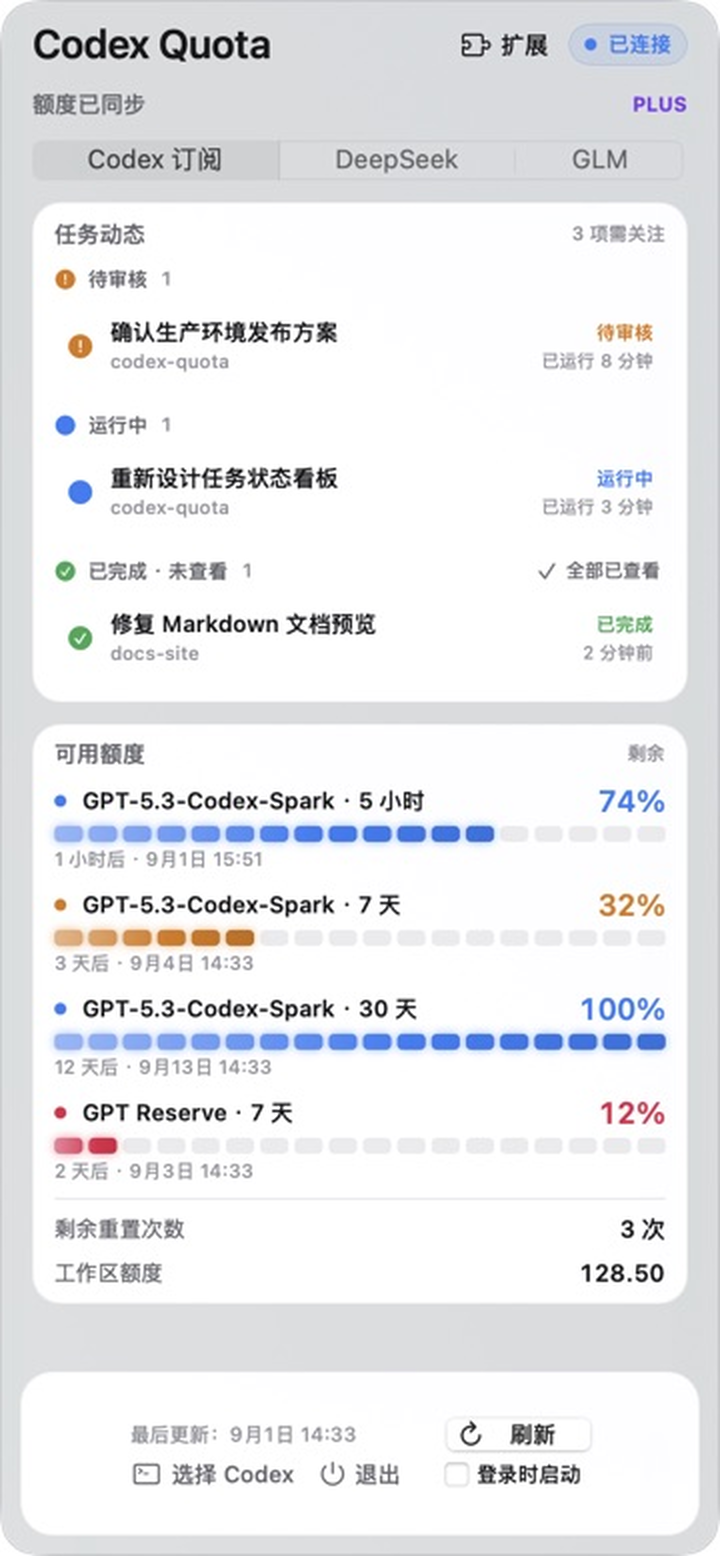
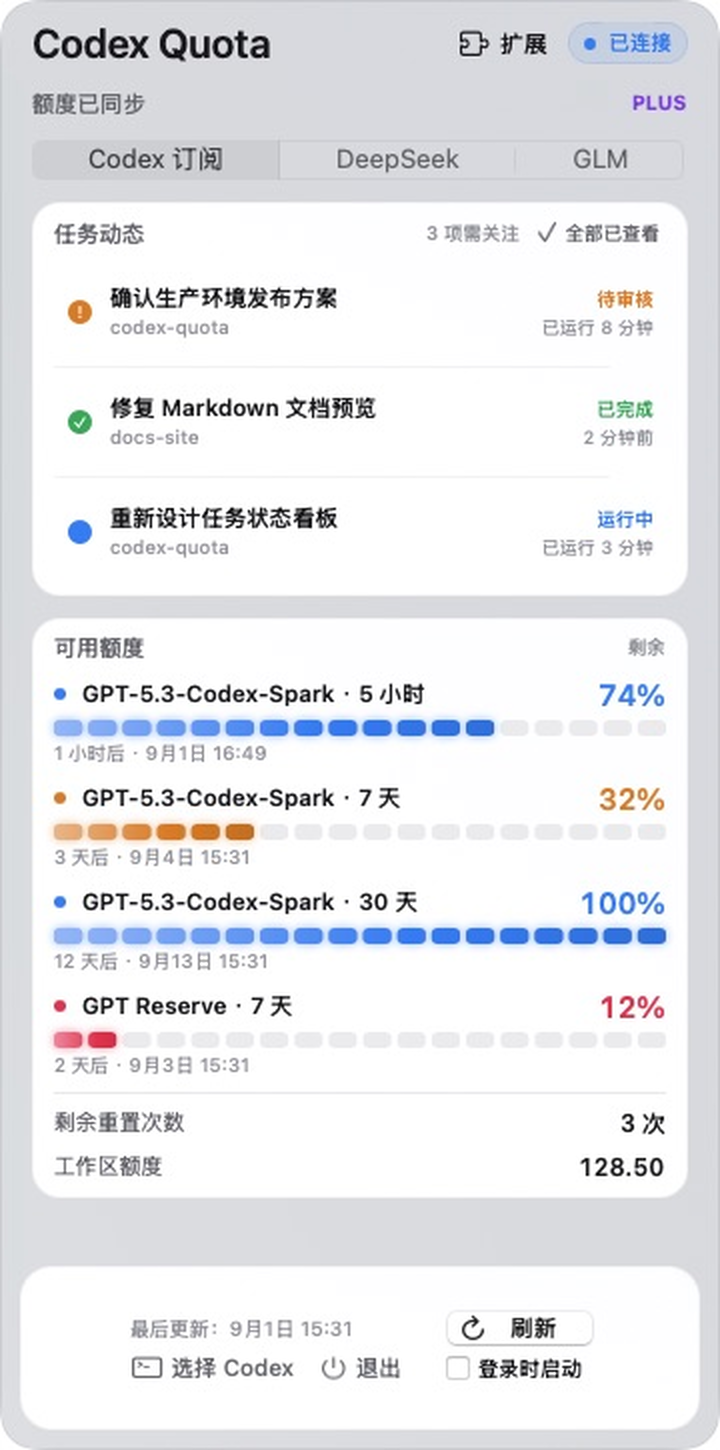
release: v0.2.8

diff --git a/Sources/CodexQuota/CQPopoverController.m b/Sources/CodexQuota/CQPopoverController.m
@@ -455,6 +455,7 @@ static NSString *CQTaskTimeLabel(CQCodexTask *task) {
 @property(nonatomic, strong) NSSegmentedControl *providerControl;
 @property(nonatomic, strong) NSView *taskPanel;
 @property(nonatomic, strong) NSTextField *taskCountLabel;
+@property(nonatomic, strong) NSButton *markAllTasksViewedButton;
 @property(nonatomic, strong) NSStackView *taskStack;
 @property(nonatomic, strong) NSMutableDictionary<NSString *, CQTaskRowButton *> *taskRows;
 @property(nonatomic, copy) NSString *taskSignature;
@@ -579,11 +580,16 @@ static NSString *CQTaskTimeLabel(CQCodexTask *task) {
     self.taskCountLabel = CQLabel(@"", [NSFont monospacedDigitSystemFontOfSize:9.5 weight:NSFontWeightSemibold], CQTheme.overlay);
     self.taskCountLabel.alignment = NSTextAlignmentRight;
     [taskHeader addArrangedSubview:self.taskCountLabel];
+    self.markAllTasksViewedButton = CQQuietButton(@"全部已查看", @"checkmark", self, @selector(markAllTasksViewed:));
+    self.markAllTasksViewedButton.font = [NSFont systemFontOfSize:9.5 weight:NSFontWeightMedium];
+    self.markAllTasksViewedButton.toolTip = @"移除所有已完成提醒";
+    self.markAllTasksViewedButton.hidden = YES;
+    [taskHeader addArrangedSubview:self.markAllTasksViewedButton];
     [taskContent addArrangedSubview:taskHeader];
     self.taskStack = [NSStackView new];
     self.taskStack.orientation = NSUserInterfaceLayoutOrientationVertical;
     self.taskStack.alignment = NSLayoutAttributeLeading;
-    self.taskStack.spacing = 10;
+    self.taskStack.spacing = 4;
     [taskContent addArrangedSubview:self.taskStack];
     [NSLayoutConstraint activateConstraints:@[
         [taskContent.leadingAnchor constraintEqualToAnchor:self.taskPanel.leadingAnchor constant:11],
@@ -791,61 +797,26 @@ static NSString *CQTaskTimeLabel(CQCodexTask *task) {
 - (NSArray<CQCodexTask *> *)allTasksInSnapshot:(CQTaskSnapshot *)snapshot {
     NSMutableArray<CQCodexTask *> *tasks = [NSMutableArray array];
     [tasks addObjectsFromArray:snapshot.waitingForApprovalTasks ?: @[]];
-    [tasks addObjectsFromArray:snapshot.runningTasks ?: @[]];
     [tasks addObjectsFromArray:snapshot.unreadCompletedTasks ?: @[]];
+    [tasks addObjectsFromArray:snapshot.runningTasks ?: @[]];
     return tasks;
 }
 
-- (NSStackView *)taskGroupWithTitle:(NSString *)title
-                              state:(CQTaskState)state
-                              tasks:(NSArray<CQCodexTask *> *)tasks
-                    animationIndex:(NSUInteger *)animationIndex {
-    NSStackView *group = [NSStackView new];
-    group.orientation = NSUserInterfaceLayoutOrientationVertical;
-    group.alignment = NSLayoutAttributeLeading;
-    group.spacing = 4;
-
-    NSStackView *header = CQHorizontal();
-    header.spacing = 6;
-    NSImageView *icon = [NSImageView new];
-    NSImage *image = [NSImage imageWithSystemSymbolName:CQTaskSymbolName(state) accessibilityDescription:title];
-    image.template = YES;
-    icon.image = image;
-    icon.contentTintColor = CQTaskColor(state);
-    [icon.widthAnchor constraintEqualToConstant:11].active = YES;
-    [icon.heightAnchor constraintEqualToConstant:11].active = YES;
-    [header addArrangedSubview:icon];
-    [header addArrangedSubview:CQLabel(title, [NSFont systemFontOfSize:10 weight:NSFontWeightSemibold], CQTheme.subtext)];
-    [header addArrangedSubview:CQLabel([NSString stringWithFormat:@"%lu", (unsigned long)tasks.count],
-        [NSFont monospacedDigitSystemFontOfSize:9.5 weight:NSFontWeightSemibold], CQTheme.overlay)];
-    NSView *spacer = [NSView new];
-    [spacer setContentHuggingPriority:NSLayoutPriorityDefaultLow forOrientation:NSLayoutConstraintOrientationHorizontal];
-    [header addArrangedSubview:spacer];
-    if (state == CQTaskStateCompletedUnread) {
-        NSButton *markAll = CQQuietButton(@"全部已查看", @"checkmark", self, @selector(markAllTasksViewed:));
-        markAll.font = [NSFont systemFontOfSize:9.5 weight:NSFontWeightMedium];
-        markAll.toolTip = @"移除所有已完成提醒";
-        [header addArrangedSubview:markAll];
-    }
-    [group addArrangedSubview:header];
-    [header.widthAnchor constraintEqualToAnchor:group.widthAnchor].active = YES;
-
+- (void)appendTaskRows:(NSArray<CQCodexTask *> *)tasks {
     for (NSUInteger index = 0; index < tasks.count; index++) {
         CQCodexTask *task = tasks[index];
         CQTaskRowButton *row = [[CQTaskRowButton alloc] initWithTask:task target:self action:@selector(taskSelected:)];
         self.taskRows[task.turnID] = row;
-        [group addArrangedSubview:row];
-        [row.widthAnchor constraintEqualToAnchor:group.widthAnchor].active = YES;
-        [row animateEntranceWithDelay:(*animationIndex) * 0.025];
-        (*animationIndex)++;
+        [self.taskStack addArrangedSubview:row];
+        [row.widthAnchor constraintEqualToAnchor:self.taskStack.widthAnchor].active = YES;
+        [row animateEntranceWithDelay:index * 0.025];
         if (index + 1 < tasks.count) {
             NSView *divider = CQDivider();
             divider.alphaValue = 0.58;
-            [group addArrangedSubview:divider];
-            [divider.widthAnchor constraintEqualToAnchor:group.widthAnchor constant:-28].active = YES;
+            [self.taskStack addArrangedSubview:divider];
+            [divider.widthAnchor constraintEqualToAnchor:self.taskStack.widthAnchor constant:-28].active = YES;
         }
     }
-    return group;
 }
 
 - (void)reconcileTaskSnapshot:(CQTaskSnapshot *)snapshot {
@@ -854,6 +825,7 @@ static NSString *CQTaskTimeLabel(CQCodexTask *task) {
     self.taskCountLabel.stringValue = snapshot.attentionCount > 0
         ? [NSString stringWithFormat:@"%lu 项需关注", (unsigned long)snapshot.attentionCount]
         : @"已清空";
+    self.markAllTasksViewedButton.hidden = snapshot.unreadCompletedTasks.count == 0;
     if ([signature isEqualToString:self.taskSignature]) {
         for (CQCodexTask *task in [self allTasksInSnapshot:snapshot]) {
             [self.taskRows[task.turnID] updateWithTask:task];
@@ -887,22 +859,7 @@ static NSString *CQTaskTimeLabel(CQCodexTask *task) {
         return;
     }
 
-    NSUInteger animationIndex = 0;
-    NSArray<NSDictionary *> *groups = @[
-        @{ @"title": @"待审核", @"state": @(CQTaskStateWaitingForApproval), @"tasks": snapshot.waitingForApprovalTasks ?: @[] },
-        @{ @"title": @"运行中", @"state": @(CQTaskStateRunning), @"tasks": snapshot.runningTasks ?: @[] },
-        @{ @"title": @"已完成 · 未查看", @"state": @(CQTaskStateCompletedUnread), @"tasks": snapshot.unreadCompletedTasks ?: @[] }
-    ];
-    for (NSDictionary *definition in groups) {
-        NSArray<CQCodexTask *> *tasks = definition[@"tasks"];
-        if (tasks.count == 0) continue;
-        NSStackView *group = [self taskGroupWithTitle:definition[@"title"]
-                                               state:[definition[@"state"] integerValue]
-                                               tasks:tasks
-                                     animationIndex:&animationIndex];
-        [self.taskStack addArrangedSubview:group];
-        [group.widthAnchor constraintEqualToAnchor:self.taskStack.widthAnchor].active = YES;
-    }
+    [self appendTaskRows:[self allTasksInSnapshot:snapshot]];
 }
 
 - (void)reconcileQuotaWindows:(NSArray<CQRateLimitWindow *> *)windows hasSnapshot:(BOOL)hasSnapshot {

diff --git a/Sources/CodexQuota/CQCodexClient.m b/Sources/CodexQuota/CQCodexClient.m
@@ -96,7 +96,7 @@ static NSString *CQClientString(id value) {
         @"clientInfo": @{
             @"name": @"codex-quota",
             @"title": @"Codex Quota",
-            @"version": @"0.2.7"
+            @"version": @"0.2.8"
         },
         @"capabilities": @{}
     };

diff --git a/DESIGN.md b/DESIGN.md
@@ -5,7 +5,7 @@
 - 这是常驻菜单栏的单用途工具，不创建主窗口，不显示 Dock 图标。
 - 菜单栏只表达最重要的信息：仪表图标、当前模型来源，以及 Codex 最低剩余百分比、DeepSeek 剩余金额或当前 GLM 型号；存在需要关注的任务时，右侧追加语义彩色摘要：待审核为橙色、未查看完成为绿色、运行中为蓝色。多任务只显示最高优先级状态及数量，优先级固定为“待审核 → 未查看完成 → 运行中”。
 - 弹窗固定宽 360pt，高度优先跟随内容自然伸展，并按当前屏幕可用区域自动封顶；只有内容确实超过屏幕安全高度时才滚动内容区，操作区始终保持可见。
-- 主看板在来源切换与额度区域之间展示“任务动态”，只包含待审核、运行中和完成但未查看的任务；空分组不占位，全部为空时显示紧凑完成态。
+- 主看板在来源切换与额度区域之间展示“任务动态”，只包含待审核、运行中和完成但未查看的任务；所有任务按关注优先级平铺为一条连续列表，不显示状态分组标题，全部为空时显示紧凑完成态。
 
 ## 视觉语言
 
@@ -21,7 +21,7 @@
 
 - 面板打开时立即刷新；后台以事件更新为主、30 秒轮询为辅。
 - 本机任务状态每秒只读校准；菜单栏状态摘要按“`!数量` / `✓数量` / `●数量`”三选一显示，悬浮说明提供三组完整数量，不运行持续动画。
-- 任务行必须显示标题、项目、状态文字和开始 / 完成时间，不使用无法验证的进度条。新出现的任务行使用 160ms 克制进入反馈；开启“减少动态效果”时只保留淡入。
+- 任务行必须显示标题、项目、状态文字和开始 / 完成时间，不使用无法验证的进度条。任务之间只使用轻分隔线，不再用状态标题分组；新出现的任务行使用 160ms 克制进入反馈，开启“减少动态效果”时只保留淡入。
 - 打开面板不会自动清除完成提醒。Codex 切到前台时，所有已完成任务自动标记为已查看；若任务在 Codex 已位于前台时完成，也直接视为已查看。点击已完成任务或“全部已查看”仍可手动清除，状态跨启动保存，最多保留 7 天。
 - “待审核”只允许由 Codex 明确的运行时信号驱动；本机持久化数据无法区分审核等待与普通执行时，统一安全回退为“运行中”。
 - 菜单栏面板始终锚定状态栏按钮并限制在当前屏幕可见区域内；再次点击状态栏按钮、按下 Escape 或面板失去焦点时关闭，页面切换与高度变化后重新对齐同一锚点。
